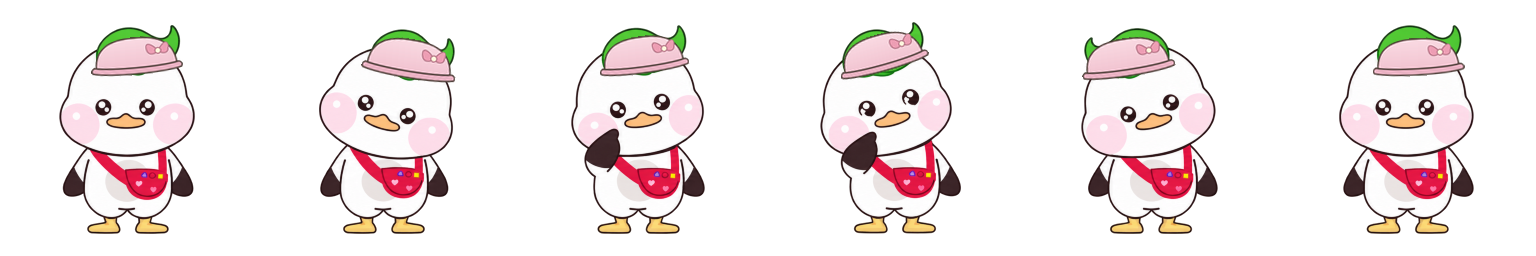
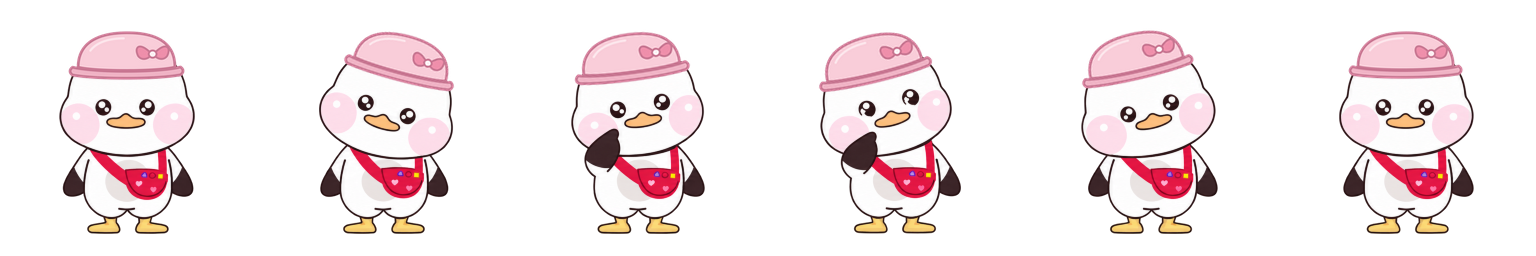
Redraw wardrobe hats in Syeon's style and hide the leaf under them
The hats still read as stickers: a dark brown outline and glossy shine
unlike Syeon's art, perched on the leaf instead of the head. Hats are now
drawn like the leaf itself (flat fill, darker same-hue outline, one soft
highlight). While a hat is worn the leaf and its matting halo are removed,
and the hat is fitted to the measured head width on the crown. Tilt follows
the line through both cheeks; the leaf shape is slanted by design and is
no longer used for tilt. Side views keep the hat level.

The unused v2 hat images and leaf-tilt table are removed. Body outfit
atlases and the frame lookup are byte-identical.

diff --git a/assets/wardrobe_presets/source-v2/hats.py b/assets/wardrobe_presets/source-v2/hats.py
@@ -1,0 +1,186 @@
+"""Offline hat art and fitting for the curated wardrobe atlases.
+
+Hats are drawn like Syeon's own leaf: flat fill, a darker outline of the same
+hue and one soft highlight, instead of a dark brown sticker outline. While a
+hat is worn the leaf is hidden, so the hat sits on the head crown rather than
+perching on the leaf. Head roll comes from the line through both cheeks; the
+leaf shape is slanted by design and would tilt the hat in upright poses.
+
+Used only by build.py at development time; nothing here ships in the app.
+"""
+import math
+
+import numpy as np
+from PIL import Image
+from PySide6.QtCore import QPointF, QRectF, Qt
+from PySide6.QtGui import QColor, QImage, QPainter, QPainterPath, QPen
+
+SS = 4  # supersampling for hat art
+LINE = 5.0  # art units on a 256-wide canvas; about 2px once fitted to the head
+HEAD_WHITE = (254, 254, 253, 255)
+HATS = {
+    "beret": dict(fill="#7d97cf", shade="#6680bb", ink="#3f5a95", light="#a9bde4"),
+    "sunhat": dict(fill="#fbe3a0", ink="#bf9241", light="#fff3cc", band="#f0a8b3", band_ink="#c7707f"),
+    "ribbon_hat": dict(fill="#f9cdd9", shade="#f0b3c5", ink="#c97893", light="#fde6ec", bow="#ef8fab"),
+}
+
+
+def _path(points):
+    p = QPainterPath(QPointF(*(v * SS for v in points[0])))
+    for kind, c in points[1:]:
+        c = [v * SS for v in c]
+        if kind == "C":
+            p.cubicTo(*c)
+        elif kind == "L":
+            p.lineTo(*c)
+        elif kind == "Z":
+            p.closeSubpath()
+    return p
+
+
+def _pen(color, width):
+    return QPen(QColor(color), width * SS, Qt.PenStyle.SolidLine,
+                Qt.PenCapStyle.RoundCap, Qt.PenJoinStyle.RoundJoin)
+
+
+def draw_hat(name):
+    """Return the hat as a tightly cropped RGBA PIL image (requires a QApplication)."""
+    c = HATS[name]
+    img = QImage(256 * SS, 144 * SS, QImage.Format.Format_ARGB32_Premultiplied)
+    img.fill(Qt.GlobalColor.transparent)
+    p = QPainter(img)
+    p.setRenderHints(QPainter.RenderHint.Antialiasing)
+    if name == "beret":
+        p.setPen(_pen(c["ink"], LINE)); p.setBrush(QColor(c["fill"]))
+        p.drawPath(_path([(28, 92), ("C", (34, 48, 70, 30, 120, 34)), ("C", (150, 18, 186, 26, 202, 46)),
+                          ("C", (226, 60, 230, 80, 228, 96)), ("C", (190, 110, 70, 112, 28, 100)),
+                          ("C", (24, 97, 24, 94, 28, 92)), ("Z", ())]))
+        p.setPen(Qt.PenStyle.NoPen); p.setBrush(QColor(c["shade"]))
+        p.drawPath(_path([(36, 96), ("C", (80, 104, 175, 104, 222, 94)), ("C", (222, 99, 220, 102, 216, 103)),
+                          ("C", (170, 110, 80, 110, 36, 101)), ("Z", ())]))
+        p.setPen(_pen(c["light"], 4)); p.setBrush(Qt.BrushStyle.NoBrush)
+        p.drawPath(_path([(58, 66), ("C", (74, 50, 98, 44, 120, 44))]))
+        p.setPen(_pen(c["ink"], 4)); p.drawPath(_path([(36, 96), ("C", (80, 104, 175, 104, 222, 94))]))
+        p.setPen(_pen(c["ink"], LINE)); p.setBrush(QColor(c["fill"]))
+        p.drawEllipse(QRectF(118 * SS, 22 * SS, 16 * SS, 14 * SS))
+        pts = [(176 + (12 if i % 2 == 0 else 5.5) * math.cos(-math.pi / 2 + i * math.pi / 5),
+                72 + (12 if i % 2 == 0 else 5.5) * math.sin(-math.pi / 2 + i * math.pi / 5)) for i in range(10)]
+        star = QPainterPath(QPointF(pts[0][0] * SS, pts[0][1] * SS))
+        for x, y in pts[1:]:
+            star.lineTo(x * SS, y * SS)
+        star.closeSubpath()
+        p.setPen(_pen("#c39a3c", 3)); p.setBrush(QColor("#ffe58f")); p.drawPath(star)
+    elif name == "sunhat":
+        p.setPen(_pen(c["ink"], LINE)); p.setBrush(QColor(c["fill"]))
+        p.drawPath(_path([(14, 96), ("C", (40, 80, 80, 80, 128, 82)), ("C", (178, 80, 218, 80, 242, 96)),
+                          ("C", (232, 110, 186, 116, 128, 116)), ("C", (70, 116, 24, 110, 14, 96)), ("Z", ())]))
+        p.drawPath(_path([(56, 88), ("C", (54, 44, 80, 28, 128, 28)), ("C", (176, 28, 202, 44, 200, 88)),
+                          ("C", (170, 96, 86, 96, 56, 88)), ("Z", ())]))
+        p.setPen(_pen(c["band_ink"], 3.5)); p.setBrush(QColor(c["band"]))
+        p.drawPath(_path([(57, 74), ("C", (88, 82, 168, 82, 199, 74)), ("L", (200, 86)),
+                          ("C", (168, 94, 88, 94, 56, 86)), ("Z", ())]))
+        p.setPen(_pen(c["light"], 4)); p.setBrush(Qt.BrushStyle.NoBrush)
+        p.drawPath(_path([(74, 58), ("C", (84, 44, 104, 38, 124, 38))]))
+        p.setPen(_pen("#c58a2e", 2.5))
+        for dx, dy in [(0, -8), (7.5, -2.5), (5, 6.5), (-5, 6.5), (-7.5, -2.5)]:
+            p.setBrush(QColor("#ffd45c"))
+            p.drawEllipse(QRectF((180 + dx - 5.5) * SS, (68 + dy - 5.5) * SS, 11 * SS, 11 * SS))
+        p.setBrush(QColor("#d99b3f")); p.drawEllipse(QRectF(175 * SS, 63 * SS, 10 * SS, 10 * SS))
+    else:  # ribbon_hat: a small cloche with a bow
+        p.setPen(_pen(c["ink"], LINE)); p.setBrush(QColor(c["fill"]))
+        p.drawPath(_path([(40, 92), ("C", (40, 50, 72, 30, 128, 30)), ("C", (184, 30, 214, 50, 214, 92)),
+                          ("C", (186, 100, 70, 100, 40, 92)), ("Z", ())]))
+        p.setBrush(QColor(c["shade"]))
+        p.drawPath(_path([(30, 92), ("C", (74, 102, 182, 102, 224, 92)), ("C", (230, 96, 230, 102, 224, 106)),
+                          ("C", (182, 114, 74, 114, 30, 106)), ("C", (24, 102, 24, 96, 30, 92)), ("Z", ())]))
+        p.setPen(_pen(c["light"], 4)); p.setBrush(Qt.BrushStyle.NoBrush)
+        p.drawPath(_path([(62, 62), ("C", (74, 46, 98, 40, 122, 40))]))
+        p.setPen(_pen(c["ink"], 3.5)); p.setBrush(QColor(c["bow"]))
+        p.drawPath(_path([(170, 66), ("C", (150, 46, 140, 56, 148, 72)), ("C", (154, 80, 164, 78, 170, 72)), ("Z", ())]))
+        p.drawPath(_path([(178, 66), ("C", (198, 46, 208, 56, 200, 72)), ("C", (194, 80, 184, 78, 178, 72)), ("Z", ())]))
+        p.setBrush(QColor("#fff2f5")); p.drawEllipse(QRectF(167 * SS, 62 * SS, 14 * SS, 13 * SS))
+    p.end()
+    img = img.convertToFormat(QImage.Format.Format_RGBA8888)
+    arr = np.frombuffer(bytes(img.constBits()), np.uint8).reshape(img.height(), img.width(), 4)
+    art = Image.fromarray(arr.copy(), "RGBA").resize((256, 144), Image.Resampling.LANCZOS)
+    return art.crop(art.getbbox())
+
+
+def _leaf_mask(a, bbox):
+    """Leaf pixels near the landmark box, grown 3px to include its light matting halo."""
+    rgb = a[:, :, :3].astype(int)
+    m = (a[:, :, 3] > 25) & (rgb[:, :, 1] > rgb[:, :, 0] + 18) & (rgb[:, :, 1] > rgb[:, :, 2] + 18)
+    left, top, right, bottom = bbox
+    box = np.zeros_like(m)
+    box[max(0, top - 6):bottom + 7, max(0, left - 6):right + 7] = True
+    m &= box
+    for _ in range(3):
+        grown = m.copy()
+        grown[1:] |= m[:-1]; grown[:-1] |= m[1:]; grown[:, 1:] |= m[:, :-1]; grown[:, :-1] |= m[:, 1:]
+        m = grown
+    return m
+
+
+def _remove_leaf(a, leaf):
+    """Leaf pixels between head pixels on both sides become head white; others clear."""
+    out = a.copy()
+    solid = (a[:, :, 3] > 200) & ~leaf
+    for y in np.where(leaf.any(axis=1))[0]:
+        row = np.where(solid[y])[0]
+        for x in np.where(leaf[y])[0]:
+            inside = ((row < x) & (row > x - 70)).any() and ((row > x) & (row < x + 70)).any()
+            out[y, x] = HEAD_WHITE if inside else (0, 0, 0, 0)
+    return out
+
+
+def head_tilt(frames, idx):
+    """Head roll in degrees for one frame of a pose's landmark list."""
+    md = frames[idx]
+    axes = [f["cheek_axis_degrees"] for f in frames if f.get("cheek_axis_degrees") is not None]
+    if len(md["cheeks"]) == 2 and md.get("cheek_axis_degrees") is not None:
+        value = md["cheek_axis_degrees"]
+    elif axes and len(md["cheeks"]) > 2:  # lying poses detect extra pink areas
+        value = float(np.median(axes))
+    else:  # side view: one cheek, upright head
+        value = 0.0
+    return max(-25.0, min(25.0, float(value)))
+
+
+def _head_run(alpha, y, cx):
+    row = alpha[y] > 100
+    cx = int(round(cx))
+    if not 0 <= cx < 256 or not row[cx]:
+        return None
+    left = right = cx
+    while left > 0 and row[left - 1]:
+        left -= 1
+    while right < 255 and row[right + 1]:
+        right += 1
+    return left, right
+
+
+def wear_hat(frame, landmarks, angle, art):
+    """Return a new RGBA frame with the leaf hidden and the hat seated on the crown."""
+    a = np.asarray(frame.convert("RGBA")).copy()
+    leaf = _leaf_mask(a, landmarks["leaf"]["bbox"])
+    ys, xs = np.where(leaf)
+    centre = (float(xs.mean()), float(ys.mean()))
+    # Measure in an upright copy so the brim follows the head, not the image rows.
+    up_alpha = np.asarray(Image.fromarray(a[:, :, 3]).rotate(angle, resample=Image.Resampling.BILINEAR, center=centre))
+    up_leaf = np.asarray(Image.fromarray(leaf.astype(np.uint8) * 255).rotate(angle, center=centre)) > 127
+    lys, lxs = np.where(up_leaf)
+    leaf_w = lxs.max() - lxs.min() + 1
+    brim_y = min(255, int(np.percentile(lys, 97)) + 2)
+    cx = float(np.median(lxs))
+    run = _head_run(up_alpha, brim_y, cx)
+    width = leaf_w * 1.25 if run is None else run[1] - run[0] + 1
+    if run is not None:
+        cx = (run[0] + run[1]) / 2
+    width = max(leaf_w * 1.1, min(width, leaf_w * 1.5)) * 1.06
+    hat = art.resize((max(1, round(width)), max(1, round(art.height * width / art.width))), Image.Resampling.LANCZOS)
+    layer = Image.new("RGBA", (256, 256))
+    layer.alpha_composite(hat, (round(cx - hat.width / 2), max(0, round(brim_y - hat.height * 0.9))))
+    layer = layer.rotate(-angle, resample=Image.Resampling.BICUBIC, center=centre)
+    out = Image.fromarray(_remove_leaf(a, leaf))
+    out.alpha_composite(layer)
+    return out

diff --git a/assets/wardrobe_presets/source-v2/build.py b/assets/wardrobe_presets/source-v2/build.py
@@ -29,27 +29,15 @@ spec=importlib.util.spec_from_file_location('draft_wearables',Path(__file__).wit
 draft=importlib.util.module_from_spec(spec); spec.loader.exec_module(draft)
 draft.ROOT=SOURCE_MAIN/'frames'; draft.THINKING=SOURCE_THINKING/'frames'
 data=draft.DATA
-angles=json.loads((ROOT/'assets'/'wardrobe_presets'/'hat_pose_v2.json').read_text(encoding='utf8'))
-print('angle schema', list(angles.keys()))
-anglemap=angles['angle_degrees']
+hspec=importlib.util.spec_from_file_location('hats',Path(__file__).with_name('hats.py'))
+hats=importlib.util.module_from_spec(hspec); hspec.loader.exec_module(hats)
+hat_art={name:hats.draw_hat(name) for name in hats.HATS}
 def digest(pm):
  im=pm.toImage().convertToFormat(QImage.Format.Format_RGBA8888)
  return hashlib.sha256(bytes(im.constBits())).hexdigest()
-def hat(state,idx,name,framehash):
+def hat(state,idx,name):
  raw=(SOURCE_THINKING/'frames'/state/f'frame-{idx}.png') if state=='thinking' else (SOURCE_MAIN/'frames'/state/f'frame-{idx}.png')
- im=Image.open(raw).convert('RGBA')
- leaf=data[state][idx]['leaf']['bbox']; left,top,right,bottom=leaf
- asset=Image.open(ROOT/'assets'/'wardrobe_presets'/(name+'_v2.png')).convert('RGBA')
- # Seat the hat on the crown: wider than the leaf and low enough that the
- # brim rests on the head, so only the leaf tip emerges above the hat.
- asset=asset.crop(asset.getbbox()); scale=min((right-left+1)*1.15/asset.width,(bottom-top+1)*.80/asset.height)
- asset=asset.resize((max(1,round(asset.width*scale)),max(1,round(asset.height*scale))),Image.Resampling.LANCZOS)
- angle=anglemap.get(framehash,0)
- if isinstance(angle,dict): angle=angle.get('angle_degrees',0)
- asset=asset.rotate(-float(angle),resample=Image.Resampling.BICUBIC,expand=True)
- x=round((left+right-asset.width)/2); y=round(bottom+asset.height*.12-asset.height)
- im.alpha_composite(asset,(max(0,x),max(0,y)))
- return im
+ return hats.wear_hat(Image.open(raw),data[state][idx],hats.head_tilt(data[state],idx),hat_art[name])
 
 SCRATCH.mkdir(parents=True); DEST.mkdir(parents=True)
 lookup={}; duplicates=[]
@@ -63,7 +51,7 @@ for choice in ('beret','sunhat','ribbon_hat','scarf_blue','scarf_pink','cardigan
   kind='thinking' if state=='thinking' else 'main'; run=basedirs[kind]
   for idx,frame in enumerate(meta['frames']):
    key=digest(frame)
-   if choice in ('beret','sunhat','ribbon_hat'): image=hat(state,idx,choice,key)
+   if choice in ('beret','sunhat','ribbon_hat'): image=hat(state,idx,choice)
    else: image=draft.test(state,idx,{'scarf_blue':'scarf'}.get(choice,choice))
    image.save(run/'frames'/state/f'frame-{idx}.png')
   print(choice,state,flush=True)

diff --git a/wardrobe_presets.py b/wardrobe_presets.py
@@ -15,7 +15,7 @@ from PySide6.QtGui import QImage, QPainter, QPixmap, QRegion
 
 
 PRESETS = {
-    "beret": ("별 베레모", "작은 별 장식이 달린 남색 베레모예요."),
+    "beret": ("별 베레모", "작은 별 장식이 달린 파란 베레모예요."),
     "sunhat": ("해바라기 모자", "노란 꽃이 달린 햇살 모자예요."),
     "ribbon_hat": ("분홍 리본 모자", "분홍 리본으로 꾸민 모자예요."),
     "scarf_blue": ("하늘 목도리", "따뜻한 하늘색 목도리예요."),

diff --git a/docs/WARDROBE_CURATION.md b/docs/WARDROBE_CURATION.md
@@ -6,7 +6,7 @@
 
 정면 옷 이미지를 모든 자세에 같은 방향으로 붙이면 옆모습이나 누운 모습에 맞지 않고, 얼굴·날개·가방의 앞뒤 관계가 어긋날 수 있습니다. 프레임 개수와 파일 형식이 올바르더라도 착용 모습이 자연스럽다는 뜻은 아닙니다. 서기, 걷기, 끌려가기, 앉아 자기, 누워 자기, 엎드려 자기, 고민과 좌우 반전을 살펴보고, 움직임 전환 시 위치가 튀거나 잘리는지도 확인합니다.
 
-현재 누워 있거나 엎드린 자세에서는 목도리가 머리 아래에 가려지고 가디건과 앞치마는 등 일부만 보입니다. 모자 3종은 잎 위에 얹히지 않고 정수리에 앉도록 잎보다 조금 넓게 배치하며, 잎 끝만 모자 위로 나옵니다. 걷기 측면의 모자는 별도 측면 그림이 아니라 같은 모자를 자세에 맞춰 변형한 것입니다.
+현재 누워 있거나 엎드린 자세에서는 목도리가 머리 아래에 가려지고 가디건과 앞치마는 등 일부만 보입니다. 모자를 쓰면 머리의 잎은 모자 속에 감춰지고, 모자는 머리 너비에 맞춰 정수리에 씌웁니다. 모자는 션의 잎처럼 같은 색 계열의 진한 테두리와 평면 채색으로 그렸고, 머리 기울기는 두 볼을 잇는 선을 따릅니다. 볼이 하나만 보이는 옆모습에서는 모자를 수평으로 둡니다. 걷기 측면의 모자는 별도 측면 그림이 아니라 같은 모자를 자세에 맞춰 변형한 것입니다.
 
 기본 션과 픽셀이 다른 사용자가 가져온 외형에는 기존의 동적 의상 표시 방식을 유지합니다. 가져온 외형은 자세와 색이 다를 수 있어 기본 션과 똑같이 맞는다고 보장할 수 없습니다. 기존 외형 파일과 사용자 설정을 덮어쓰지 않으며, **기본 모습**과 **기본 외형**으로 각각 되돌릴 수 있습니다.
 

diff --git a/README.md b/README.md
@@ -86,7 +86,7 @@
 
 신규 사용자 온보딩, 여러 모니터의 작업 영역 인식, 프레임 부드러운 전환과 Windows 시작 시 자동 실행도 지원합니다. 온보딩·동작과 자동 실행은 트레이에서 조절할 수 있습니다.
 
-**션이 옷장**에서 미리 준비된 의상과 소품을 선택하면 션에게 바로 적용됩니다. 별 베레모, 해바라기 모자, 분홍 리본 모자, 하늘·분홍 목도리, 하늘 가디건, 노란 앞치마가 준비되어 있습니다. 별도의 이미지 생성, 계정 로그인이나 인터넷 연결 없이 선택할 수 있으며, **기본 모습**을 고르면 장식을 해제할 수 있습니다.
+**션이 옷장**에서 미리 준비된 의상과 소품을 선택하면 션에게 바로 적용됩니다. 별 베레모, 해바라기 모자, 분홍 리본 모자, 하늘·분홍 목도리, 하늘 가디건, 노란 앞치마가 준비되어 있습니다. 별도의 이미지 생성, 계정 로그인이나 인터넷 연결 없이 선택할 수 있으며, **기본 모습**을 고르면 장식을 해제할 수 있습니다. 모자를 쓰는 동안 머리의 잎은 모자 속에 감춰지며, 기본 모습으로 돌아오면 다시 보입니다.
 
 옷장 위쪽의 **옷 빠른 선택**이나 아래쪽 목록에서 원하는 모습을 선택할 수 있습니다. **움직임 미리보기**에서는 서기, 걷기, 끌려가기, 잠자기와 고민 등 해당 외형이 지원하는 동작을 살펴볼 수 있습니다. **재생**과 **일시정지**, 프레임 슬라이더와 **좌우 반전**을 이용하며, 미리보기를 바꾸어도 실제 펫의 현재 동작은 바뀌지 않습니다. 선택한 의상은 기존과 같이 바로 적용됩니다. 자세에 따라 몸통 옷 일부가 가려질 수 있으므로 원하는 모습을 직접 확인해 주세요.
 
